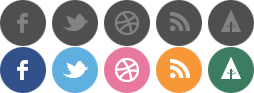
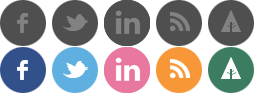
Add share buttons for Facebook Twitter and LinkedIn. Link don't work yet, comming soon

diff --git a/src/main/webapp/css/custom-styles.css b/src/main/webapp/css/custom-styles.css
@@ -660,8 +660,8 @@ a.facebook {background-position: 0px 0px;}
 a.facebook:hover {background-position: 0px -47px;}
 a.twitter{background-position: -52px 0px;}
 a.twitter:hover {background-position: -52px -47px;}
-a.dribble{background-position: -104px 0px;}
-a.dribble:hover {background-position: -104px -47px;}
+a.linkedin{background-position: -104px 0px;}
+a.linkedin:hover {background-position: -104px -47px;}
 a.rss{background-position: -156px 0px;}
 a.rss:hover {background-position: -156px -47px;}
 a.forrst{background-position: -208px 0px;}
